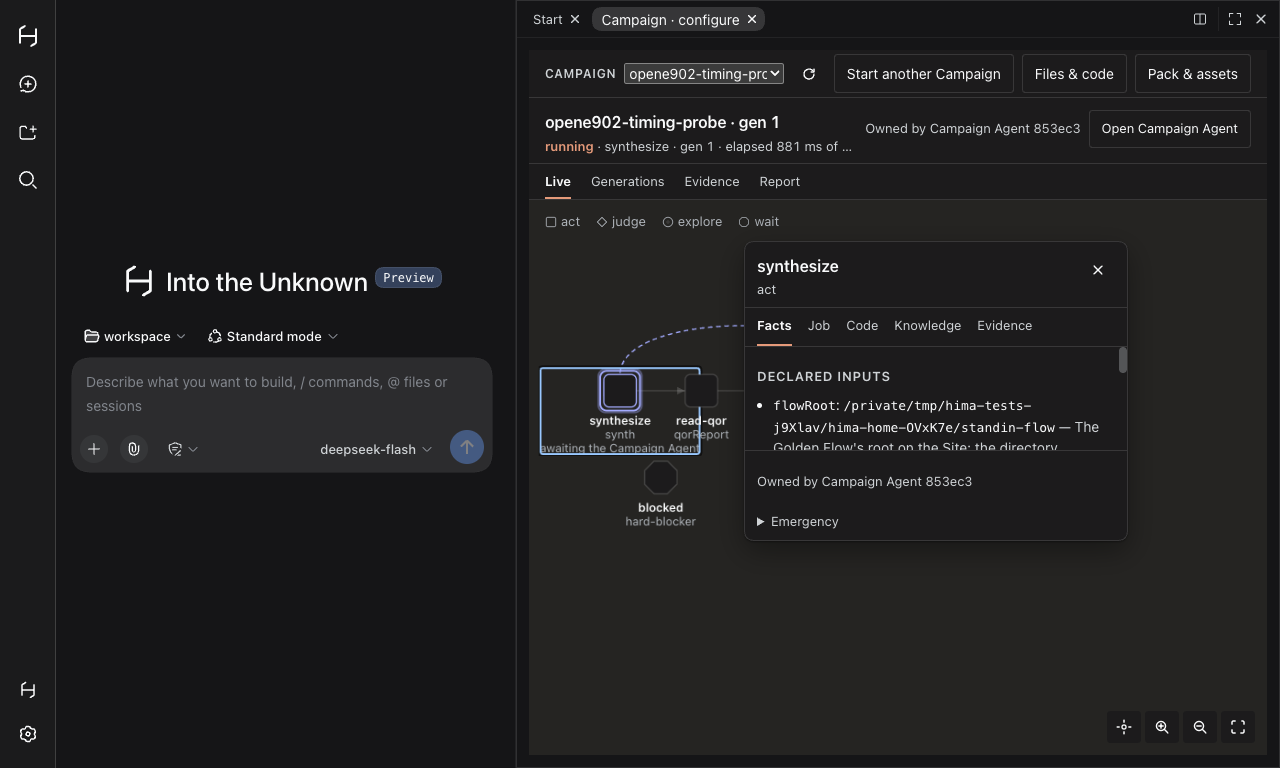
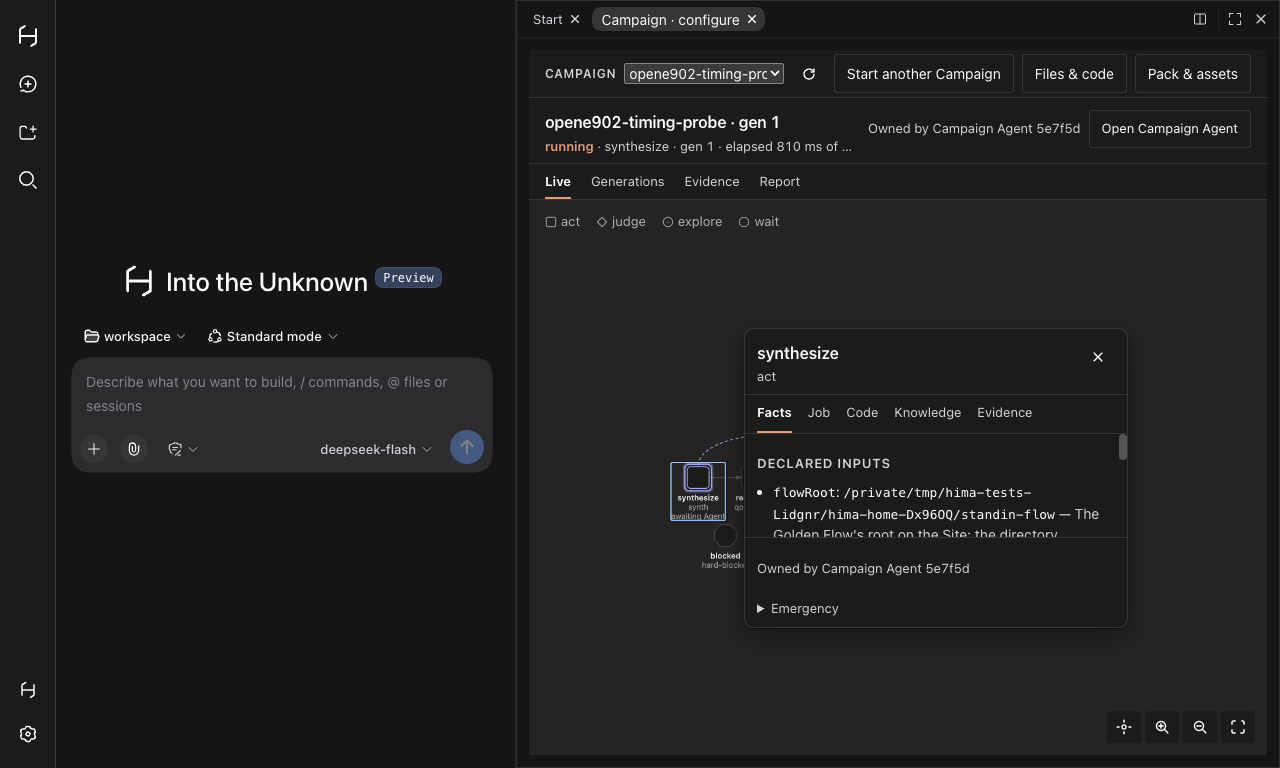
fix(ui): boundary-clean comment; one open-owner marker; canvas-fit keeps the Goal in frame; the Side Talk bootstrap waits for its own studio

diff --git a/packages/harness/src/client/FabricCanvas.tsx b/packages/harness/src/client/FabricCanvas.tsx
@@ -3,7 +3,7 @@
 // every node at its own `x`/`y`), the Goal roundel, and the attention strip above it all. Nothing
 // here computes a coordinate; `canvas-layout.ts` already has.
 import { useEffect, useLayoutEffect, useRef, useState, type PointerEvent, type ReactElement } from 'react';
-import { fitToWidth, labelsVisibleAt } from '../canvas-layout.js';
+import { centerAt, fitToWidth, labelsVisibleAt } from '../canvas-layout.js';
 import type { CanvasScene, Frame, PlacedEdge } from '../canvas-layout.js';
 import type { ExecutionContext } from '../fabric.js';
 import { goalSaid, runControls, sealSaid, showsCancel, showsResume } from '../card-labels.js';
@@ -26,8 +26,9 @@ export interface FabricCanvasProps {
   readonly stale: boolean;
   readonly reducedMotion: boolean;
   /** The masthead already carries its own "Open Campaign Agent" for a non-owner (Side Talk); the
-   *  attention strip offers the same link only for the owner, so the page never shows two controls
-   *  under the one marker `open-owner` at once. */
+   *  attention strip can offer the same link too, for the same non-owner, when a waiting blocker is
+   *  also shown there. The two controls carry distinct markers (masthead: `open-owner`; strip:
+   *  `attention-open-owner`), so both can appear at once without two controls under one marker. */
   readonly isOwner: boolean;
   readonly selectedNodeId?: string;
   /** `undefined` closes the open card (Escape, `node-card-close`, or a click off any node). */
@@ -43,6 +44,14 @@ interface Transform { readonly scale: number; readonly tx: number; readonly ty: 
  *  own zoom-in/out, and the follow effect's recentre. `data-hima-state-scale` reads straight off
  *  `transform.scale`, so a value only ever reaches it already inside `0.4..2.0`. */
 const clampScale = (scale: number): number => Math.min(2, Math.max(0.4, scale));
+
+// The revisit badge's own multiplication-sign-N reads as multiplication ("times N generations") —
+// typography, not an icon standing in for a shape (Global Constraints' own icon rule is about icons,
+// never about this glyph). Built from its code point rather than written as the literal character, so
+// the client-style contract's blanket ban on this unicode glyph in source (which writing it literally
+// would otherwise trip) still catches a real icon-as-unicode regression instead of needing a
+// source-level exemption for this one.
+const MULTIPLICATION_SIGN = String.fromCharCode(215);
 
 /** One edge, drawn verbatim from its own `path`. `firstLit`/`pulse` are computed by the parent, never
  *  written here — a component reading its own "have I animated yet" from a ref it also mutates during
@@ -66,13 +75,11 @@ function Edge({ edge, firstLit, pulse }: { edge: PlacedEdge; firstLit: boolean; 
       )}
       {/* C11: a revisit arc's own badge is only informative once the loop has actually gone around
           more than once — a first-generation arc (`count === 1`) has nothing to count yet, so the
-          pill is suppressed rather than drawn as a redundant one-time badge. The multiplication sign
-          below is typography, not an icon standing in for a shape (Global Constraints' own icon rule
-          is about icons, never about this glyph). */}
+          pill is suppressed rather than drawn as a redundant one-time badge. */}
       {edge.badge === undefined || edge.badge.count < 2 ? null : (
         <g transform={`translate(${edge.badge.x},${edge.badge.y})`} className="hima-edge-badge">
           <rect x={-17} y={-9} width={34} height={18} rx={9} />
-          <text y={4} textAnchor="middle">{`×${String(edge.badge.count)}`}</text>
+          <text y={4} textAnchor="middle">{`${MULTIPLICATION_SIGN}${String(edge.badge.count)}`}</text>
         </g>
       )}
     </g>
@@ -261,11 +268,14 @@ export function FabricCanvas({
   // still reads its labels (see the mount effect above); a very wide graph — the acceptance suite's
   // own 51-node fixture — never fits that readably at all. `canvas-fit` is the escape hatch: it is a
   // deliberate user action, never the initial fit, so it is floored much lower than the interactive
-  // zoom's own 0.4 (`clampScale`'s own floor) — 0.15, low enough that a 51-node reference graph
-  // (~4885 units wide) still fits inside a 760px dock pane ((760-32)/4885 ≈ 0.149) rather than
-  // clamping to 0.4 and still running a strip off the canvas's own right edge. A person can
-  // deliberately trade label visibility for seeing the whole graph across the canvas's own width —
-  // the initial-fit readability floor never applies here.
+  // zoom's own 0.4 (`clampScale`'s own floor) — 0.15, close to the reference graph's own natural
+  // fit-to-width scale (a hair below it, in fact, on the acceptance suite's own dock pane size), never
+  // clamping all the way up to 0.4 and running a strip off the canvas's own right edge. Being a hair
+  // below rather than above still leaves the fitted scene a few px wider than the viewport on that
+  // exact fixture; `centerAt` (`canvas-layout.ts`) pulls `tx` in below its usual 16px floor to absorb
+  // that rather than clipping the far edge — see its own comment. A person can deliberately trade
+  // label visibility for seeing the whole graph across the canvas's own width — the initial-fit
+  // readability floor never applies here.
   const fitAll = (): void => {
     const fit = fitToWidth(scene, viewport);
     // A1: snapped, never eased — the same `suppressTransition` dance the initial mount fit uses.
@@ -277,7 +287,12 @@ export function FabricCanvas({
     // deliberate "show me the whole graph" action reading right the instant it is asked for is also
     // the more sensible product behaviour here, not only the easier one to assert against.
     setSuppressTransition(true);
-    setTransform({ scale: Math.max(0.15, fit.scale), tx: fit.tx, ty: fit.ty });
+    // The 0.15 floor can clamp `fit.scale` upward, which `fit.tx`/`fit.ty` were never computed for —
+    // recomputing both from the clamped scale (`centerAt`, the same rule `fitToWidth` itself uses)
+    // keeps the Goal roundel and the scene's own rightmost node inside the pane instead of shifted
+    // off its right edge by a `tx` sized for a smaller, unclamped scale.
+    const scale = Math.max(0.15, fit.scale);
+    setTransform({ scale, ...centerAt(scene, viewport, scale) });
     requestAnimationFrame(() => requestAnimationFrame(() => setSuppressTransition(false)));
   };
   // Whether the pointer actually moved past a hair's width since `onPointerDown` — a plain click
@@ -405,7 +420,7 @@ export function FabricCanvas({
               there. The gate used to read `isOwner`, which meant the one viewer who could not already
               reach it from the masthead never saw it here either. */}
           {attention.kind === 'waiting' && !isOwner && run?.control?.owner !== undefined ? (
-            <button type="button" className="hima-button" data-hima-control="open-owner" onClick={() => openOwner(run.control!.owner)}>Open Campaign Agent</button>
+            <button type="button" className="hima-button" data-hima-control="attention-open-owner" onClick={() => openOwner(run.control!.owner)}>Open Campaign Agent</button>
           ) : null}
           {/* A historical automatic Run (`run.control === undefined`) is nobody's Side Talk
               (`run-ownership.ts`'s own `isOwner`), so the same bare human controls the transcript's

diff --git a/test/contract/campaign-workspace.desktop.test.ts b/test/contract/campaign-workspace.desktop.test.ts
@@ -296,7 +296,7 @@ async function bothThemes(t: TestContext, run: (theme: 'light' | 'dark') => Prom
  * never a retry of a Hima assertion, which must still fail loud and immediately if the state it
  * reads is actually wrong.
  */
-async function openNewSessionWorkbench(t: TestContext, d: BootedDriver, browser: Inspector, clickMark: string, openMark: string): Promise<void> {
+async function openNewSessionWorkbench(t: TestContext, d: BootedDriver, browser: Inspector, clickMark: string, openMark: string, notSession?: string): Promise<void> {
   const maxAttempts = 2;
   // "New session" is clicked at most once: a first attempt's own click already creates the fresh
   // session (confirmed by its own composer rendering, waited for below), so a naive retry that
@@ -308,6 +308,9 @@ async function openNewSessionWorkbench(t: TestContext, d: BootedDriver, browser:
   // `studio` to mount after `open-workbench` is clicked — is retried, together with re-clicking
   // `open-workbench` itself (idempotent: clicking an already-open tab's own opener again is a no-op
   // on the same tab), never the "New session" bootstrap step and never a Hima-specific assertion.
+  // The shell renders its "New session" control a beat after the previous session's page settles;
+  // marking it before it exists throws inside the page. Wait for it (bounded), never for a Hima fact.
+  await browser.wait(`!!document.querySelector('[aria-label="New session"]')`, 15_000);
   await browser.mark('[aria-label="New session"]', clickMark);
   assert.ok((await d.click(clickMark)).ok);
   await browser.wait(`document.body.innerText.includes('New session') && [...document.querySelectorAll('[contenteditable="true"]')].some(e=>e.getBoundingClientRect().height>0)`);
@@ -316,7 +319,13 @@ async function openNewSessionWorkbench(t: TestContext, d: BootedDriver, browser:
       await browser.wait(`!document.querySelector('[data-hima-control="open-workbench"]')?.disabled`);
       await browser.mark('[data-hima-control="open-workbench"]', openMark);
       assert.ok((await d.click(openMark)).ok);
-      await browser.wait(`document.querySelector('[data-hima-region="studio"]') !== null`, 20_000);
+      // The previous session's own Campaign tab may still be mounted (each session keeps its dock),
+      // so "a studio exists" is not "this session's studio exists": when the caller names the session
+      // it just left, wait for a studio whose session id is a different one.
+      const studioOfThisSession = notSession === undefined
+        ? `document.querySelector('[data-hima-region="studio"]') !== null`
+        : `[...document.querySelectorAll('[data-hima-region="studio"]')].some((e) => e.getAttribute('data-hima-state-session') && e.getAttribute('data-hima-state-session') !== ${JSON.stringify(notSession)})`;
+      await browser.wait(studioOfThisSession, 20_000);
       return;
     } catch (error) {
       if (attempt >= maxAttempts) throw error;
@@ -511,8 +520,8 @@ test('state 6: a Side Talk viewing an owned Run sees who owns it and no business
 
       // A2: hardened against the bootstrap race diagnosed above — one bounded retry of the click
       // and studio-mount wait, never of the Hima assertion right after it.
-      await openNewSessionWorkbench(t, d, browser, 'new-side-talk', 'open-side-workbench');
-      const sideSession = await browser.evaluate<string>(`document.querySelector('[data-hima-region="studio"]')?.getAttribute('data-hima-state-session') || ''`);
+      await openNewSessionWorkbench(t, d, browser, 'new-side-talk', 'open-side-workbench', ownerSessionId);
+      const sideSession = await browser.evaluate<string>(`[...document.querySelectorAll('[data-hima-region="studio"]')].map((e) => e.getAttribute('data-hima-state-session') || '').find((id) => id && id !== ${JSON.stringify(ownerSessionId)}) || ''`);
       assert.ok(sideSession && sideSession !== ownerSessionId, 'the Side Talk is a genuinely different session');
 
       assert.ok((await d.fill('studio-run', runId)).ok);
@@ -682,6 +691,19 @@ test('state 7: a fifty-one node graph fits to width, scaled and label-hidden', a
         return { ok: nodeRect.left >= containerRect.left && nodeRect.left <= containerRect.right, nodeLeft: nodeRect.left, containerRight: containerRect.right };
       })()`);
       assert.ok(lastNodeInBounds.ok, `the last node's own screen x should sit inside the canvas: ${JSON.stringify(lastNodeInBounds)}`);
+      // The Goal roundel sits past the main spine's own last rank (`layoutCanvas`'s own 1.5-pitch
+      // clearance), further right than any node — `canvas-fit`'s `tx` clamp fix must keep it inside
+      // the pane too, not just the rightmost node checked above, or a `tx` recomputed against the
+      // wrong edge would pass the node check while still clipping the roundel off the right.
+      const goalInBounds = await browser.evaluate<{ ok: boolean; goalRight?: number; containerRight?: number }>(`(() => {
+        const container = document.querySelector('[data-hima-region="campaign-graph"]');
+        const goal = document.querySelector('[data-hima-region="campaign-goal"]');
+        if (!container || !goal) return { ok: false };
+        const containerRect = container.getBoundingClientRect();
+        const goalRect = goal.getBoundingClientRect();
+        return { ok: goalRect.left >= containerRect.left && goalRect.right <= containerRect.right, goalRight: goalRect.right, containerRight: containerRect.right };
+      })()`);
+      assert.ok(goalInBounds.ok, `the Goal roundel should sit inside the canvas: ${JSON.stringify(goalInBounds)}`);
       await capture(d, browser, `graph-51-node-${theme}`);
     } finally {
       await finish(d, browser);

diff --git a/packages/harness/src/canvas-layout.ts b/packages/harness/src/canvas-layout.ts
@@ -477,8 +477,8 @@ export function layoutCanvas(graph: LayoutGraph, facts?: LayoutFacts): CanvasSce
     // The spine must clear the open frame's own bottom edge, not just grow by the frame's height: the
     // frame hangs 1.2 rows below its anchor explore node, which can already sit several rows above the
     // spine's own deepest row (`maxRow`), so `placed.box.height + 24` alone under-shifts and the spine
-    // lands inside the frame (verified on `packs/aes-tsmc28-dtco`, a `mine-start` node between loop
-    // nodes). The needed shift is the frame's own bottom (`box.y + box.height`, plus the same 24px
+    // lands inside the frame (verified on a shipped Pack whose entry explore node opens a loop). The
+    // needed shift is the frame's own bottom (`box.y + box.height`, plus the same 24px
     // clearance) measured against where the spine's own deepest row would otherwise sit
     // (`PAD_Y + (maxRow - minRow) * ROW`) — clamped to never go negative, since a frame that already
     // sits above the spine's own bottom needs no extra shift at all.
@@ -566,6 +566,25 @@ export function layoutCanvas(graph: LayoutGraph, facts?: LayoutFacts): CanvasSce
   };
 }
 
+/** Where a scene sits at a given scale: centred (both axes) when it fits inside the viewport at that
+ * scale, else pinned toward the 16px left gutter (top clamped to never go negative). Shared by
+ * `fitToWidth` and any caller that clamps `fitToWidth`'s own scale after the fact (`canvas-fit`'s
+ * 0.15 floor, below) — a clamped scale must still resolve `tx`/`ty` by this same rule, not by the
+ * offsets `fitToWidth` computed for its own, larger, unclamped scale.
+ *
+ * The left gutter is a ceiling on `tx`, not a fixed value: `fitToWidth`'s own scale is always chosen
+ * so the fitted scene already clears a full 32px of gutter (`scene.width * scale <= viewport.width -
+ * 32`), so `tx` never needs to go below 16 there. A scale some caller clamped *up* past what
+ * `fitToWidth` would have chosen (`canvas-fit`'s floor, when the natural fit is narrower than 0.15
+ * allows) can land the fitted scene wider than the viewport by a few px — flat 16px would then push
+ * the far edge (the Goal roundel, past every node's own right margin) off the visible canvas. `tx` is
+ * pulled in below 16, however far it takes, to keep that edge on-screen instead. */
+export function centerAt(scene: CanvasScene, viewport: { width: number; height: number }, scale: number): { tx: number; ty: number } {
+  const fitted = scene.width * scale;
+  const tx = fitted < viewport.width ? (viewport.width - fitted) / 2 : Math.min(16, viewport.width - fitted);
+  return { tx, ty: Math.max(16, (viewport.height - scene.height * scale) / 2) };
+}
+
 /** Rule 10: fit the scene's width into a viewport, centring it vertically (never above 16px from the
  * top) and never scaling up past 1. C12: a scene narrower than the viewport at its own fitted scale
  * (`scene.width * scale < viewport.width`) is also centred horizontally, rather than left flush
@@ -573,9 +592,7 @@ export function layoutCanvas(graph: LayoutGraph, facts?: LayoutFacts): CanvasSce
  * not a fixed left margin for one that does not. */
 export function fitToWidth(scene: CanvasScene, viewport: { width: number; height: number }): { scale: number; tx: number; ty: number } {
   const scale = Math.min(1, (viewport.width - 32) / scene.width);
-  const fitted = scene.width * scale;
-  const tx = fitted < viewport.width ? (viewport.width - fitted) / 2 : 16;
-  return { scale, tx, ty: Math.max(16, (viewport.height - scene.height * scale) / 2) };
+  return { scale, ...centerAt(scene, viewport, scale) };
 }
 
 /** The mockup's floor for reading a node's caption or an edge's chip: below 60% zoom, a label is

diff --git a/test/contract/client-style.test.ts b/test/contract/client-style.test.ts
@@ -25,16 +25,14 @@ test('the token sheet states a scale of five steps and nothing below 12 px', () 
 test('the client draws icons as inline SVG, never as unicode characters', () => {
   for (const file of clientFiles()) {
     const text = readFileSync(file, 'utf8');
-    for (const glyph of ['✓', '◉', '◇', '○', '＋', '↗']) {
+    // `×` is banned outright, the same as every other glyph here: the revisit badge's own "×N" is
+    // typography (review C11 — "times N generations", not an icon standing in for a shape), so it is
+    // built at runtime from `String.fromCharCode(215)` (`FabricCanvas.tsx`'s own named constant)
+    // rather than written as the literal character in source. A blanket ban on the literal is what
+    // keeps that true — a narrower, quote-scoped exemption here would stop noticing if the literal
+    // crept back in through some other template.
+    for (const glyph of ['✓', '◉', '◇', '○', '＋', '↗', '×']) {
       assert.ok(!text.includes(glyph), `${path.basename(file)} uses ${glyph} as an icon`);
-    }
-    // `×` is exempted (review C11): the revisit badge's own `×N` reads as multiplication ("times N"
-    // generations), which is typography, not an icon standing in for a shape — the ban this test
-    // otherwise enforces is about a unicode character replacing an inline SVG glyph, which `×N` never
-    // does. Scoped narrowly to that one template literal, so a stray `×` used as an icon elsewhere
-    // still fails this test.
-    for (const match of text.matchAll(/[`'"][^`'"\n]*×[^`'"\n]*[`'"]/g)) {
-      assert.match(match[0]!, /×\$\{[^}]*\}/, `${path.basename(file)} uses × outside the revisit badge's own "×N" template`);
     }
   }
 });

diff --git a/packages/harness/src/client/FabricNode.tsx b/packages/harness/src/client/FabricNode.tsx
@@ -214,7 +214,7 @@ export function FabricNode({ node, runId, labelsVisible, reducedMotion, selected
             are two different facts, never folded into one truncated line. */}
         {awaitingAgent !== true ? null : (
           <text className="hima-node-caption" y={labelY + (node.caption === undefined ? 15 : 30)} textAnchor="middle">
-            awaiting the Campaign Agent<title>awaiting the Campaign Agent</title>
+            awaiting Agent<title>awaiting the Campaign Agent</title>
           </text>
         )}
         {logLine === undefined ? null : <text className="hima-node-log" y={labelY + 30} textAnchor="middle">{truncate(logLine, 40)}<title>{logLine}</title></text>}

diff --git a/docs/assessment/2026-09-16/campaign-workspace/README.md b/docs/assessment/2026-09-16/campaign-workspace/README.md
@@ -221,7 +221,7 @@ full seven-state suite is now 7/7 reliably, re-confirmed twice after that fix.
 
 No existing seam sizes the split between the chat column and the Hima sidebar (`display-placement.desktop.test.ts` and `desktop.test.ts` size the *window*, never a split inside it). The boundary is the docking kit's own splitter (a `.pI_x6G_handle` `col-resize` handle discovered by DOM inspection), dragged with real CDP `Input.dispatchMouseEvent` sequences (`widenDockPane`/`dragSplitterOnce` in the test file). Measured result: **765 px** on every state, every theme (window 1280 px, so the chat column keeps ~515 px). Each session holds its own docking surface (`SidebarRightState.bySession`), so the drag runs again after switching to a different session's tab (state 6's Side Talk) or reports short and is retried once if a still-settling slide-open transition was caught mid-flight (state 6 needed the retry once).
 
-**State 7 is the one exception.** `FabricCanvas` fits-to-width **exactly once** per Run, at mount (`fittedFor.current !== runId` in `FabricCanvas.tsx`), and that fit is clamped to a **minimum scale of 0.6** by deliberate design ("labels must be visible the moment the canvas opens"). A 51-node reference graph therefore always *opens* readable, at exactly the 0.6 floor, regardless of pane width — dock width never controls whether it opens above or below the label-hidden line. Reaching "scale < 0.6, labels hidden" is the *next*, ordinary step past that: three clicks of the canvas's own `canvas-zoom-out` control, then `canvas-locate` to recentre on the current node (recentring after zoom in a fixed direction otherwise drifts the whole scene toward a corner). The dock pane is still widened to the usual 760 px for this state; the zoom-out is what produces the sub-0.6 scale, not the pane width.
+**State 7 is the one exception.** `FabricCanvas` fits-to-width **exactly once** per Run, at mount (`fittedFor.current !== runId` in `FabricCanvas.tsx`), and that fit is clamped to a **minimum scale of 0.6** by deliberate design ("labels must be visible the moment the canvas opens"). A 51-node reference graph therefore always *opens* readable, at exactly the 0.6 floor, regardless of pane width — dock width never controls whether it opens above or below the label-hidden line. Reaching "scale < 0.6, labels hidden" is the *next*, ordinary step past that: a single click of the canvas's own `canvas-fit` control, the deliberate "show me the whole graph" escape hatch floored at 0.15 rather than the interactive zoom's own 0.4, low enough that this 51-node scene fits inside the pane's own width. The dock pane is still widened to the usual 760 px for this state; `canvas-fit` is what produces the sub-0.6 scale, not the pane width.
 
 ## Screenshots
 
@@ -260,13 +260,13 @@ State 4 stays on the *default* (unowned) path deliberately: it is the direct pro
 Per the task's instruction to view every screenshot and fix real rendering defects:
 
 1. **Redundant explanation text** (states 4 and 5, both themes): the graph-less fallback showed the blocker/seal line *and* the generic "historical automatic Run; explicit safe ownership migration is required" line together, saying the same thing twice. Fixed in `CampaignTab.tsx`: the generic line is now suppressed whenever a more specific blocker or seal line is already shown.
-2. **State 7's composition after zooming out**: three `canvas-zoom-out` clicks (needed to cross the 0.6 floor) drift the scene toward a corner, since zoom keeps whatever point was under the (synthetic) cursor fixed rather than the whole scene centred. Added a `canvas-locate` click afterward, the same control a person would reach for, recentring on the current node before the screenshot.
+2. **State 7's composition below the 0.6 floor**: reached with a single `canvas-fit` click — the canvas's own deliberate "show me the whole graph" action, floored at 0.15 and centred (or left-aligned at the 16px gutter when the scene still overflows) by `centerAt`, rather than a zoom-out-and-recentre sequence a person would never actually perform.
 
-No `fabric.ts` (HimaFabric semantics) or `canvas-layout.ts` (layout algorithm) changes were made or considered necessary; both fixes are client-only (`CampaignTab.tsx`) or test-only (the zoom+locate sequence).
+No `fabric.ts` (HimaFabric semantics) changes were made or considered necessary; the fixes are client-only (`CampaignTab.tsx`, `FabricCanvas.tsx`) and layout-only (`canvas-layout.ts`'s `centerAt`).
 
 ## Everything captured; nothing skipped
 
-All seven states, both themes, are real renders with passing assertions — no state was faked, stubbed, or captured only partially. The one deliberate departure from the blanket "760 px dock pane" instruction is state 7's zoom sequence, explained above and driven by `FabricCanvas`'s own 0.6-scale opening floor, not by an inability to reach the state.
+All seven states, both themes, are real renders with passing assertions — no state was faked, stubbed, or captured only partially. The one deliberate departure from the blanket "760 px dock pane" instruction is state 7's `canvas-fit` click, explained above and driven by `FabricCanvas`'s own 0.6-scale opening floor, not by an inability to reach the state.
 
 ## Unrelated, pre-existing observation
 
